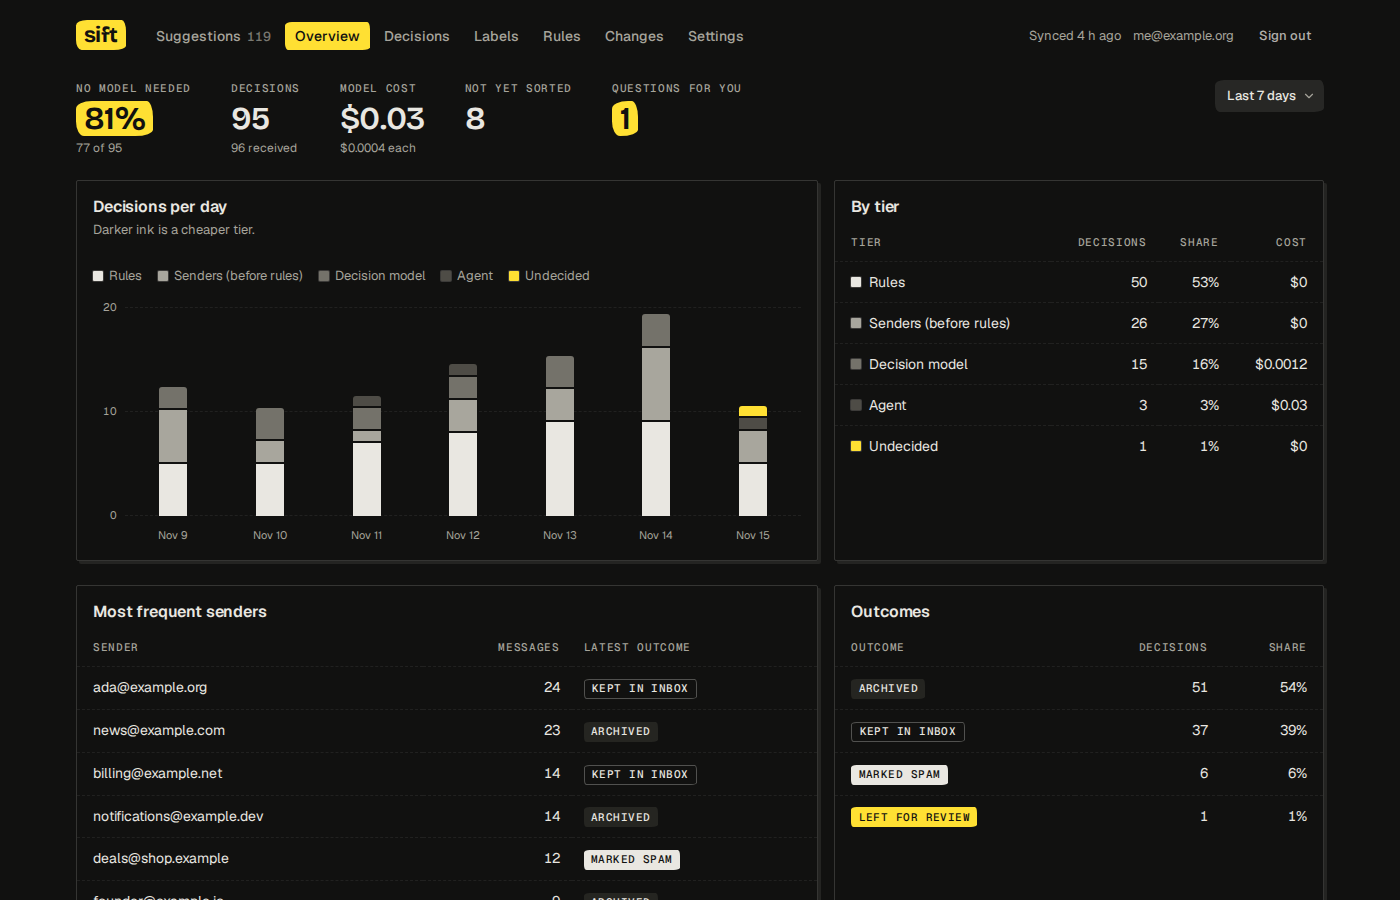
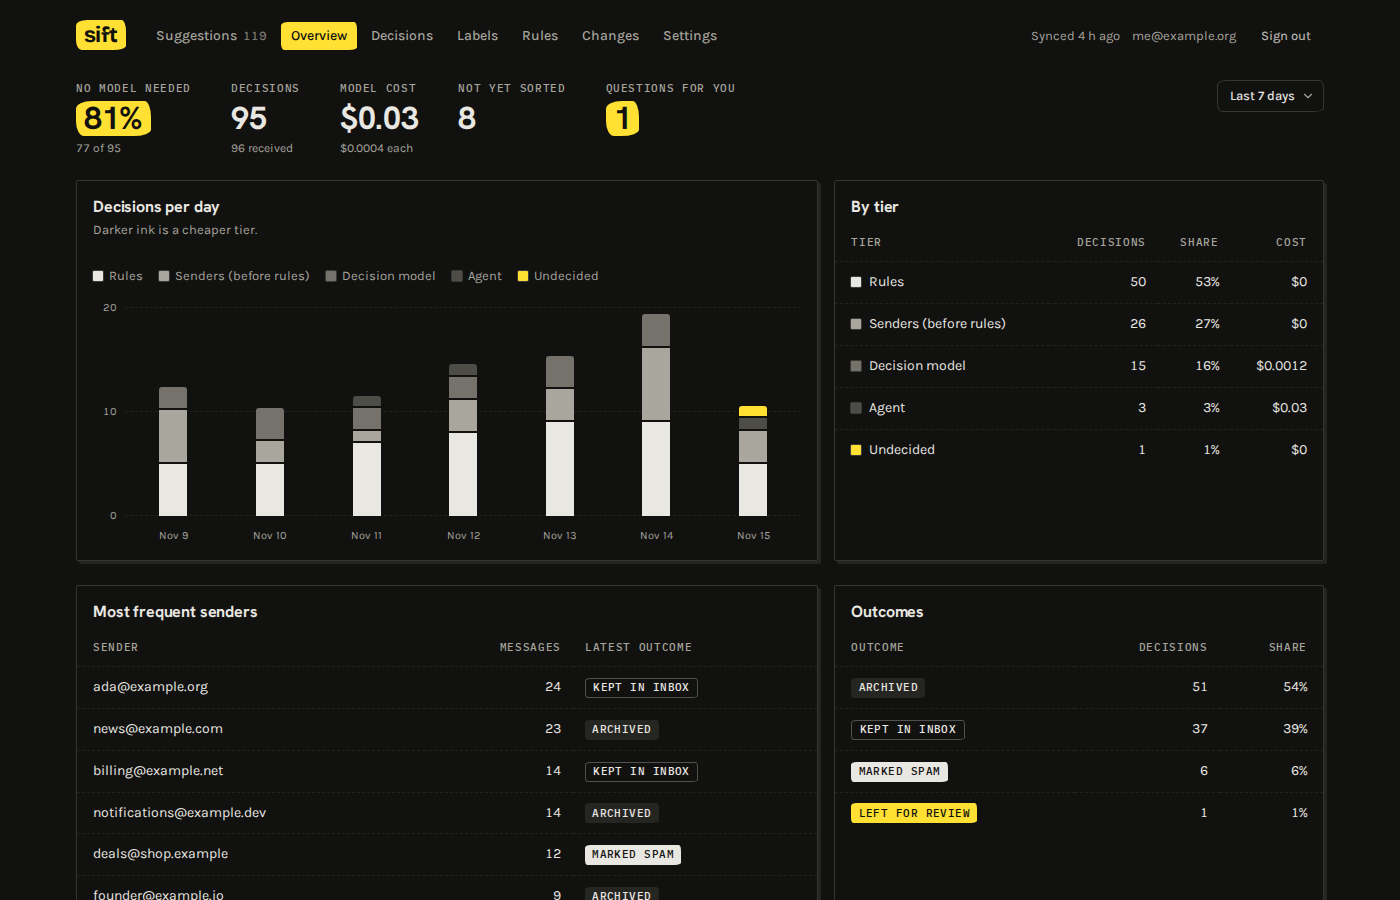
Typefaces: Karla, Hanken Grotesk and IBM Plex Mono
The same three as Peated. Karla for everything read, Hanken Grotesk
bold for titles, headings, names and figures, IBM Plex Mono for
anything typed and for the small-capital labels. The wordmark keeps
Bricolage Grotesque. Geist and the comparison switch are removed.

TODO: a user menu in the header.

diff --git a/web/src/index.css b/web/src/index.css
@@ -1,7 +1,5 @@
 @import 'tailwindcss';
 @import '@fontsource-variable/bricolage-grotesque';
-@import '@fontsource-variable/geist';
-@import '@fontsource-variable/geist-mono';
 @import '@fontsource-variable/karla';
 @import '@fontsource-variable/hanken-grotesk';
 @import '@fontsource/ibm-plex-mono/400.css';
@@ -46,9 +44,10 @@
   color-scheme: dark;
 
   /* Type, by role. */
-  --face-display: 'Bricolage Grotesque Variable', ui-sans-serif, system-ui, sans-serif;
-  --face-text: 'Geist Variable', ui-sans-serif, system-ui, sans-serif;
-  --face-mono: 'Geist Mono Variable', ui-monospace, monospace;
+  --face-wordmark: 'Bricolage Grotesque Variable', ui-sans-serif, system-ui, sans-serif;
+  --face-display: 'Hanken Grotesk Variable', ui-sans-serif, system-ui, sans-serif;
+  --face-text: 'Karla Variable', ui-sans-serif, system-ui, sans-serif;
+  --face-mono: 'IBM Plex Mono', ui-monospace, monospace;
 
   /* The dashboard is dark only: ink-black paper, off-white ink. */
   --background: #111110;
@@ -130,28 +129,24 @@
     box-shadow: 3px 3px 0 0 var(--edge);
   }
 
-  /* Display type is for what is large: the wordmark, a figure, the line a screen opens with.
-     At reading sizes its shapes cost legibility, so headings and names are set in the text face. */
+  /* Headings, names and figures are set in the display face, bold; everything read is in the text face.
+     The wordmark has a face of its own. */
+  .title,
+  .name,
   .figure,
-  .wordmark {
+  .statement {
     font-family: var(--face-display);
-    font-weight: 600;
-    letter-spacing: -0.02em;
+    font-weight: 700;
+    letter-spacing: -0.01em;
+  }
+  .statement {
+    font-size: 26px;
+    line-height: 1.15;
+    text-wrap: balance;
   }
   .figure {
     font-size: 32px;
     line-height: 1.1;
-  }
-  .wordmark {
-    font-size: 22px;
-    font-weight: 700;
-    line-height: 1;
-  }
-  .title,
-  .name {
-    font-family: var(--face-text);
-    font-weight: 600;
-    letter-spacing: -0.01em;
   }
   .title {
     font-size: 16px;
@@ -161,15 +156,12 @@
     font-size: 14px;
     line-height: 1.35;
   }
-
-  /* The one line a screen opens with. */
-  .statement {
-    font-family: var(--face-display);
-    font-size: 26px;
-    font-weight: 600;
-    line-height: 1.15;
+  .wordmark {
+    font-family: var(--face-wordmark);
+    font-size: 22px;
+    font-weight: 700;
+    line-height: 1;
     letter-spacing: -0.02em;
-    text-wrap: balance;
   }
 
   /* Small capitals in the mono face, for labels and column heads. */
@@ -272,7 +264,7 @@
   }
   body {
     @apply bg-background text-foreground;
-    font-size: 14px;
+    font-size: 15px;
     -webkit-font-smoothing: antialiased;
   }
 }
@@ -305,21 +297,4 @@ thead .row:last-child {
 }
 .base-ui-disable-scrollbar::-webkit-scrollbar {
   display: none;
-}
-
-/* Temporary, to compare typefaces: add ?fonts=peated to the address. Karla for text, Hanken Grotesk for headings, IBM Plex Mono. */
-html.fonts-peated {
-  --face-text: 'Karla Variable', ui-sans-serif, system-ui, sans-serif;
-  --face-mono: 'IBM Plex Mono', ui-monospace, monospace;
-}
-html.fonts-peated body {
-  font-size: 15px;
-}
-html.fonts-peated .title,
-html.fonts-peated .name,
-html.fonts-peated .statement,
-html.fonts-peated .figure {
-  font-family: 'Hanken Grotesk Variable', ui-sans-serif, system-ui, sans-serif;
-  font-weight: 700;
-  letter-spacing: -0.01em;
 }

diff --git a/web/src/main.tsx b/web/src/main.tsx
@@ -4,9 +4,6 @@ import { createRoot } from 'react-dom/client';
 import './index.css';
 import { App } from './App.tsx';
 
-// Temporary, to compare typefaces.
-if (new URLSearchParams(window.location.search).get('fonts') === 'peated') document.documentElement.classList.add('fonts-peated');
-
 const root = document.getElementById('root');
 if (!root) throw new Error('index.html has no #root element');
 createRoot(root).render(

diff --git a/TODO.md b/TODO.md
@@ -73,13 +73,13 @@ The dashboard manages sift, behind Google sign-in. That sign-in also connects th
 - [ ] **Settings needs designing with intent.** What is there is a list of whatever was built, in the order it was built. Decide what a person comes to Settings to do and order it by that: whether sift is working and acting, which accounts, the model and what it costs, then the rarely touched. Each page should say what changing it will do before it is changed.
 - [ ] **A working PWA.** Installable on a phone and a desktop: a manifest, icons, a service worker that serves the shell, and sensible behaviour offline (this goes with knowing when the API is unreachable). Check each against the content security policy. Later, push notifications for mail waiting on the user.
 - [ ] **Real addresses instead of hash links.** The page is a client-rendered app whose sections are fragments (`#rules`). Consider plain paths (`/rules`, `/settings/accounts`, a message at its own address): the server would serve the page for those paths and the page would read the path. Server-rendering the pages is a separate, larger question; decide whether anything needs it.
+- [ ] **A user menu in the header.** The right of the header is three loose things today: when sift last synced, the signed-in address, and Sign out. Replace the address and Sign out with an avatar that opens a menu (who is signed in, Sign out, later switching account). "Synced just now" can stay beside it. It needs a menu part in the design system, and an answer for the phone, where these already live in the full-screen menu.
 - [ ] **Know when the API is unreachable.** On a bad connection the page should say it is offline, keep showing what it last loaded, retry by itself, hold or refuse writes clearly, and never look broken. The page is a plain React app with a small `useLoaded` hook; replace that with a data layer built for this (TanStack Query: caching, retry with backoff, refetch on reconnect, optimistic writes) and add an offline indicator to the masthead.
 - [ ] **Sign in to ChatGPT (and other model providers) from the dashboard**, as Gmail already is, so setup in the terminal ends at the Google client. The device-code flow suits a page: show the code and the link, wait, then offer the models.
 - [ ] Show an expired Google sign-in where it will be seen: it is in Settings and the `run` log today, not in the masthead or `sift status`. Test users are signed out every 7 days.
 - [ ] Labels are cards and everything else is rows. Decide whether labels should be rows too.
 - [ ] Narrow screens: Suggestions has a phone layout; Rules, Decisions, Changes and the Overview tables still scroll sideways.
 - [ ] **Keyboard shortcuts as part of the design system.** Obvious things get the keys people already know (J and K or the arrows for next and previous in the panel and down a list, Enter to open, Escape to close, / to search, the number keys for a label), and each shortcut is shown on the page where it applies, so it is learned by looking. To design before building: one part that both binds a key and draws its hint, so the two cannot drift apart; how the hint looks beside a button, in a row and in a menu without adding clutter; what happens to hints on a touch screen; and a switch in Settings that turns shortcuts and their hints off. The panel has previous and next buttons and the answer has number keys and Enter today, each done by hand.
-- [ ] **Choose the typefaces.** Two sets are in the page to compare: the current one (Geist, Geist Mono) and Peated's (Karla for text, Hanken Grotesk for headings, IBM Plex Mono), shown by adding `?fonts=peated` to the address. Pick one, then remove the other set and the switch (`index.css`, `main.tsx`).
 - [ ] Design system parts still missing: a confirmation for a press that cannot be taken back (removing a rule acts at once), somewhere for "done" that survives the list reloading, a text link, a form layout, and a select for a long list (the model select has no search).
 - [ ] Message text is plain and cut at 4,000 characters, as the model sees it. Decide whether reading needs more (longer text, quoted replies folded, links listed).
 - [ ] Suggestion bodies are fetched once per waiting message; reuse the text the model tier already fetched instead of asking Gmail twice.

diff --git a/docs/DESIGN.md b/docs/DESIGN.md
@@ -14,7 +14,7 @@ A proof sheet on a dark desk: ink on near-black, one highlighter pen, hard edges
 - **Lines are ink, thinned.** `--frame` for a sheet's edge, `--rule` between rows. Never a separate grey.
 - **One shadow.** `--edge`: hard, offset down and right, the edge of the sheet beneath. A `mark` button is raised by the same edge and pressing pushes it down.
 - **Things you press have hand-cut corners** (`--cut-control`); the highlighter stroke has its own (`--cut`). Surfaces are square.
-- **Type is by role, and legible first.** The text face (Geist) carries everything read: body, names, headings. The display face (Bricolage Grotesque) is only for what is large: the wordmark, a figure, a page title or the line a screen opens with (`.statement`); at reading sizes its shapes cost legibility. Mono small capitals (`.slug`) label things; mono is for anything typed or pasted. Nothing is set smaller than 11px.
+- **Type is by role.** Karla carries everything read. Hanken Grotesk, bold, is for what is named or counted: page titles, headings, names, figures. IBM Plex Mono is for anything typed or pasted, and in small capitals (`.slug`) for labels and column heads. The wordmark alone is in Bricolage Grotesque. Nothing is set smaller than 11px. (The same three faces as Peated.)
 - **One height for controls.** Everything pressed or typed into in a row or a toolbar is `--control` high (32px), so buttons, selects and inputs line up. `lg` is for the one action a screen is about. Somewhere to type or choose (an input, a text area, a select, the search bar) is outlined and empty; something to press is filled (`--fill`), and stronger on hover. So a form reads as fields with one filled action.
 - No app bar, no gradients, no pills, no icons as decoration.
 
